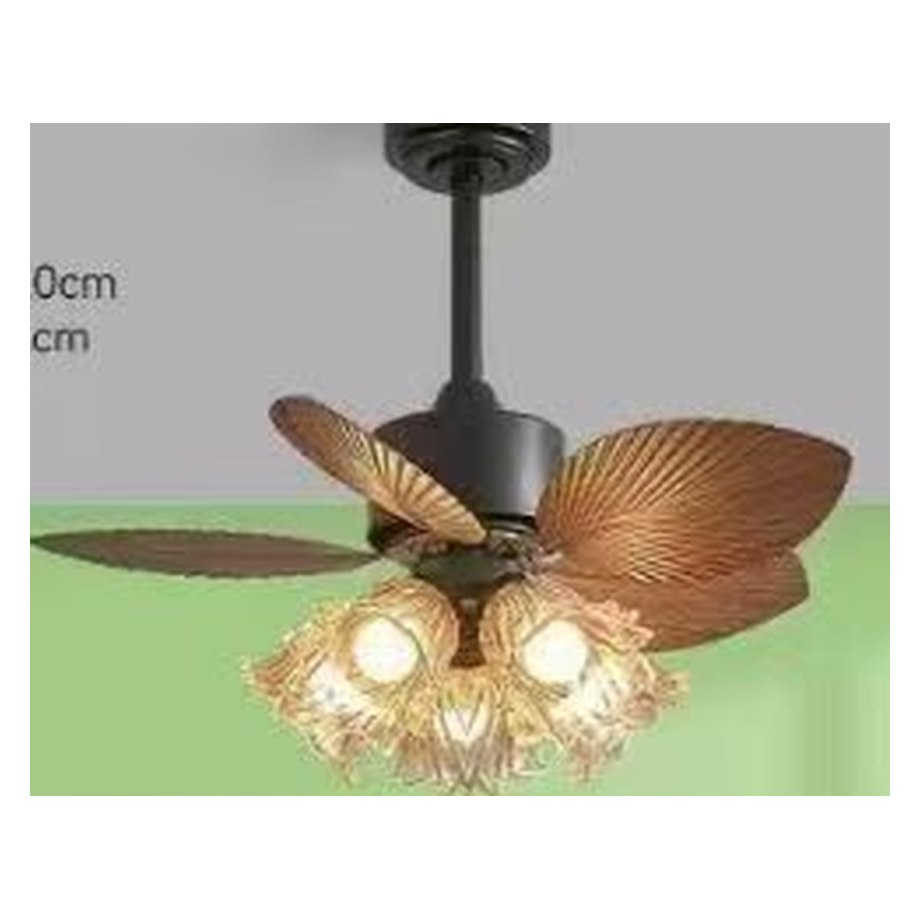
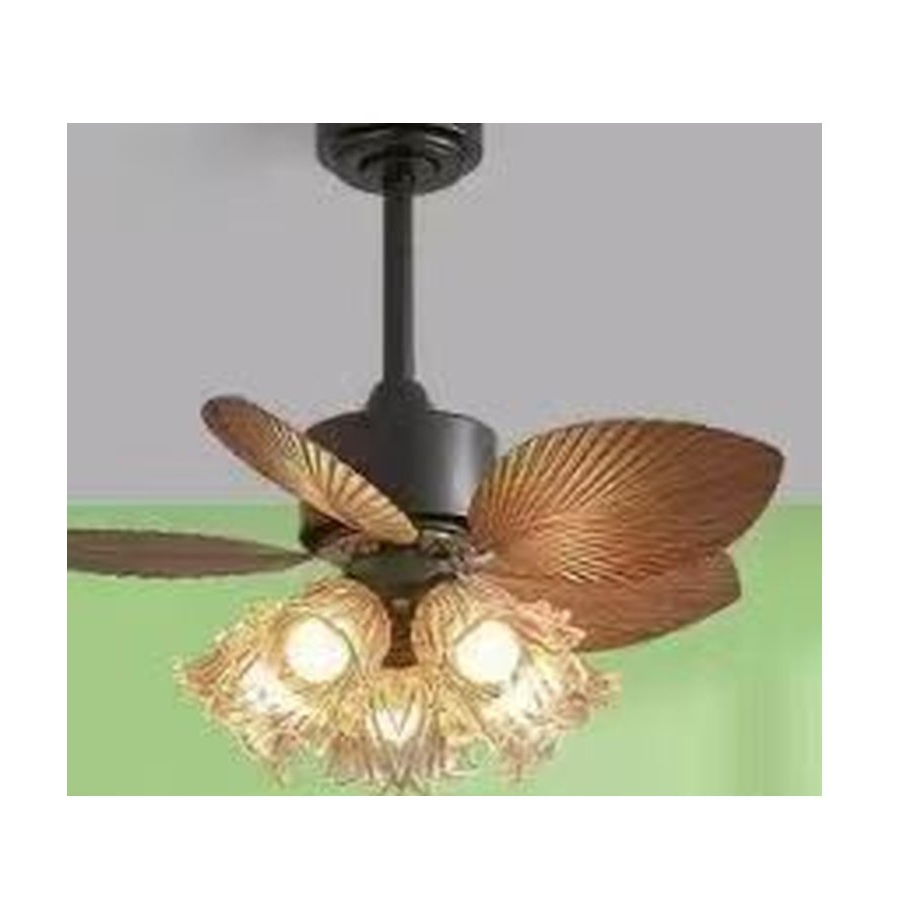
Clean fan light image overlays

diff --git a/data.js b/data.js
@@ -5669,7 +5669,7 @@ window.PRODUCTS = [
     "material": "iron art metal + high-transparency acrylic + K9 crystal",
     "light": "108W / offline voice control + remote control",
     "finish": "dark coffee color",
-    "image": "./products/catalog-0332-8106-500crystal-fan-light.jpg",
+    "image": "./products/catalog-0332-8106-500crystal-fan-light.jpg?v=20260812-fan-overlays",
     "reason": "Selected from 2026 best seller supplier catalogs for Africa, Middle East and Asia wholesale coverage.",
     "scene": "Bedroom, apartment living room, warm-market villa ceiling.",
     "description": "Fan light for warm-climate residential and hotel rooms, combining air circulation with decorative ceiling lighting for project orders.",
@@ -5931,7 +5931,7 @@ window.PRODUCTS = [
     "material": "iron + acrylic",
     "light": "dual-color LED full output：50W",
     "finish": "walnut wood + chrome",
-    "image": "./products/catalog-0347-3327-500fan-light.jpg",
+    "image": "./products/catalog-0347-3327-500fan-light.jpg?v=20260812-fan-overlays",
     "reason": "Selected from 2026 best seller supplier catalogs for Africa, Middle East and Asia wholesale coverage.",
     "scene": "Bedroom, apartment living room, warm-market villa ceiling.",
     "description": "Fan light for warm-climate residential and hotel rooms, combining air circulation with decorative ceiling lighting for project orders."
@@ -5948,7 +5948,7 @@ window.PRODUCTS = [
     "material": "iron + acrylic",
     "light": "dual-color LED full output：50W / 6 step3 colorcolor changing remote control",
     "finish": "walnut wood + chrome",
-    "image": "./products/catalog-0348-3317-500fan-light.jpg",
+    "image": "./products/catalog-0348-3317-500fan-light.jpg?v=20260812-fan-overlays",
     "reason": "Selected from 2026 best seller supplier catalogs for Africa, Middle East and Asia wholesale coverage.",
     "scene": "Bedroom, apartment living room, warm-market villa ceiling.",
     "description": "Fan light for warm-climate residential and hotel rooms, combining air circulation with decorative ceiling lighting for project orders."
@@ -6185,7 +6185,7 @@ window.PRODUCTS = [
     "material": "ABS",
     "light": "E27 x 5(bulb not included） / remote control6 speed",
     "finish": "matte black + walnut wood",
-    "image": "./products/catalog-0362-abs-2.jpg",
+    "image": "./products/catalog-0362-abs-2.jpg?v=20260812-fan-overlays",
     "reason": "Selected from 2026 best seller supplier catalogs for Africa, Middle East and Asia wholesale coverage.",
     "scene": "Bedroom, apartment living room, warm-market villa ceiling.",
     "description": "Fan light for warm-climate residential and hotel rooms, combining air circulation with decorative ceiling lighting for project orders."

diff --git a/index.html b/index.html
@@ -421,7 +421,7 @@
     </div>
 
     <script src="./inquiry-config.js?v=20260804-inquiry-receiver-ready"></script>
-    <script src="./data.js?v=20260812-clean-overlays"></script>
+    <script src="./data.js?v=20260812-fan-overlays"></script>
     <script src="./app.js?v=20260810-mobile-home-nav"></script>
   </body>
 </html>
